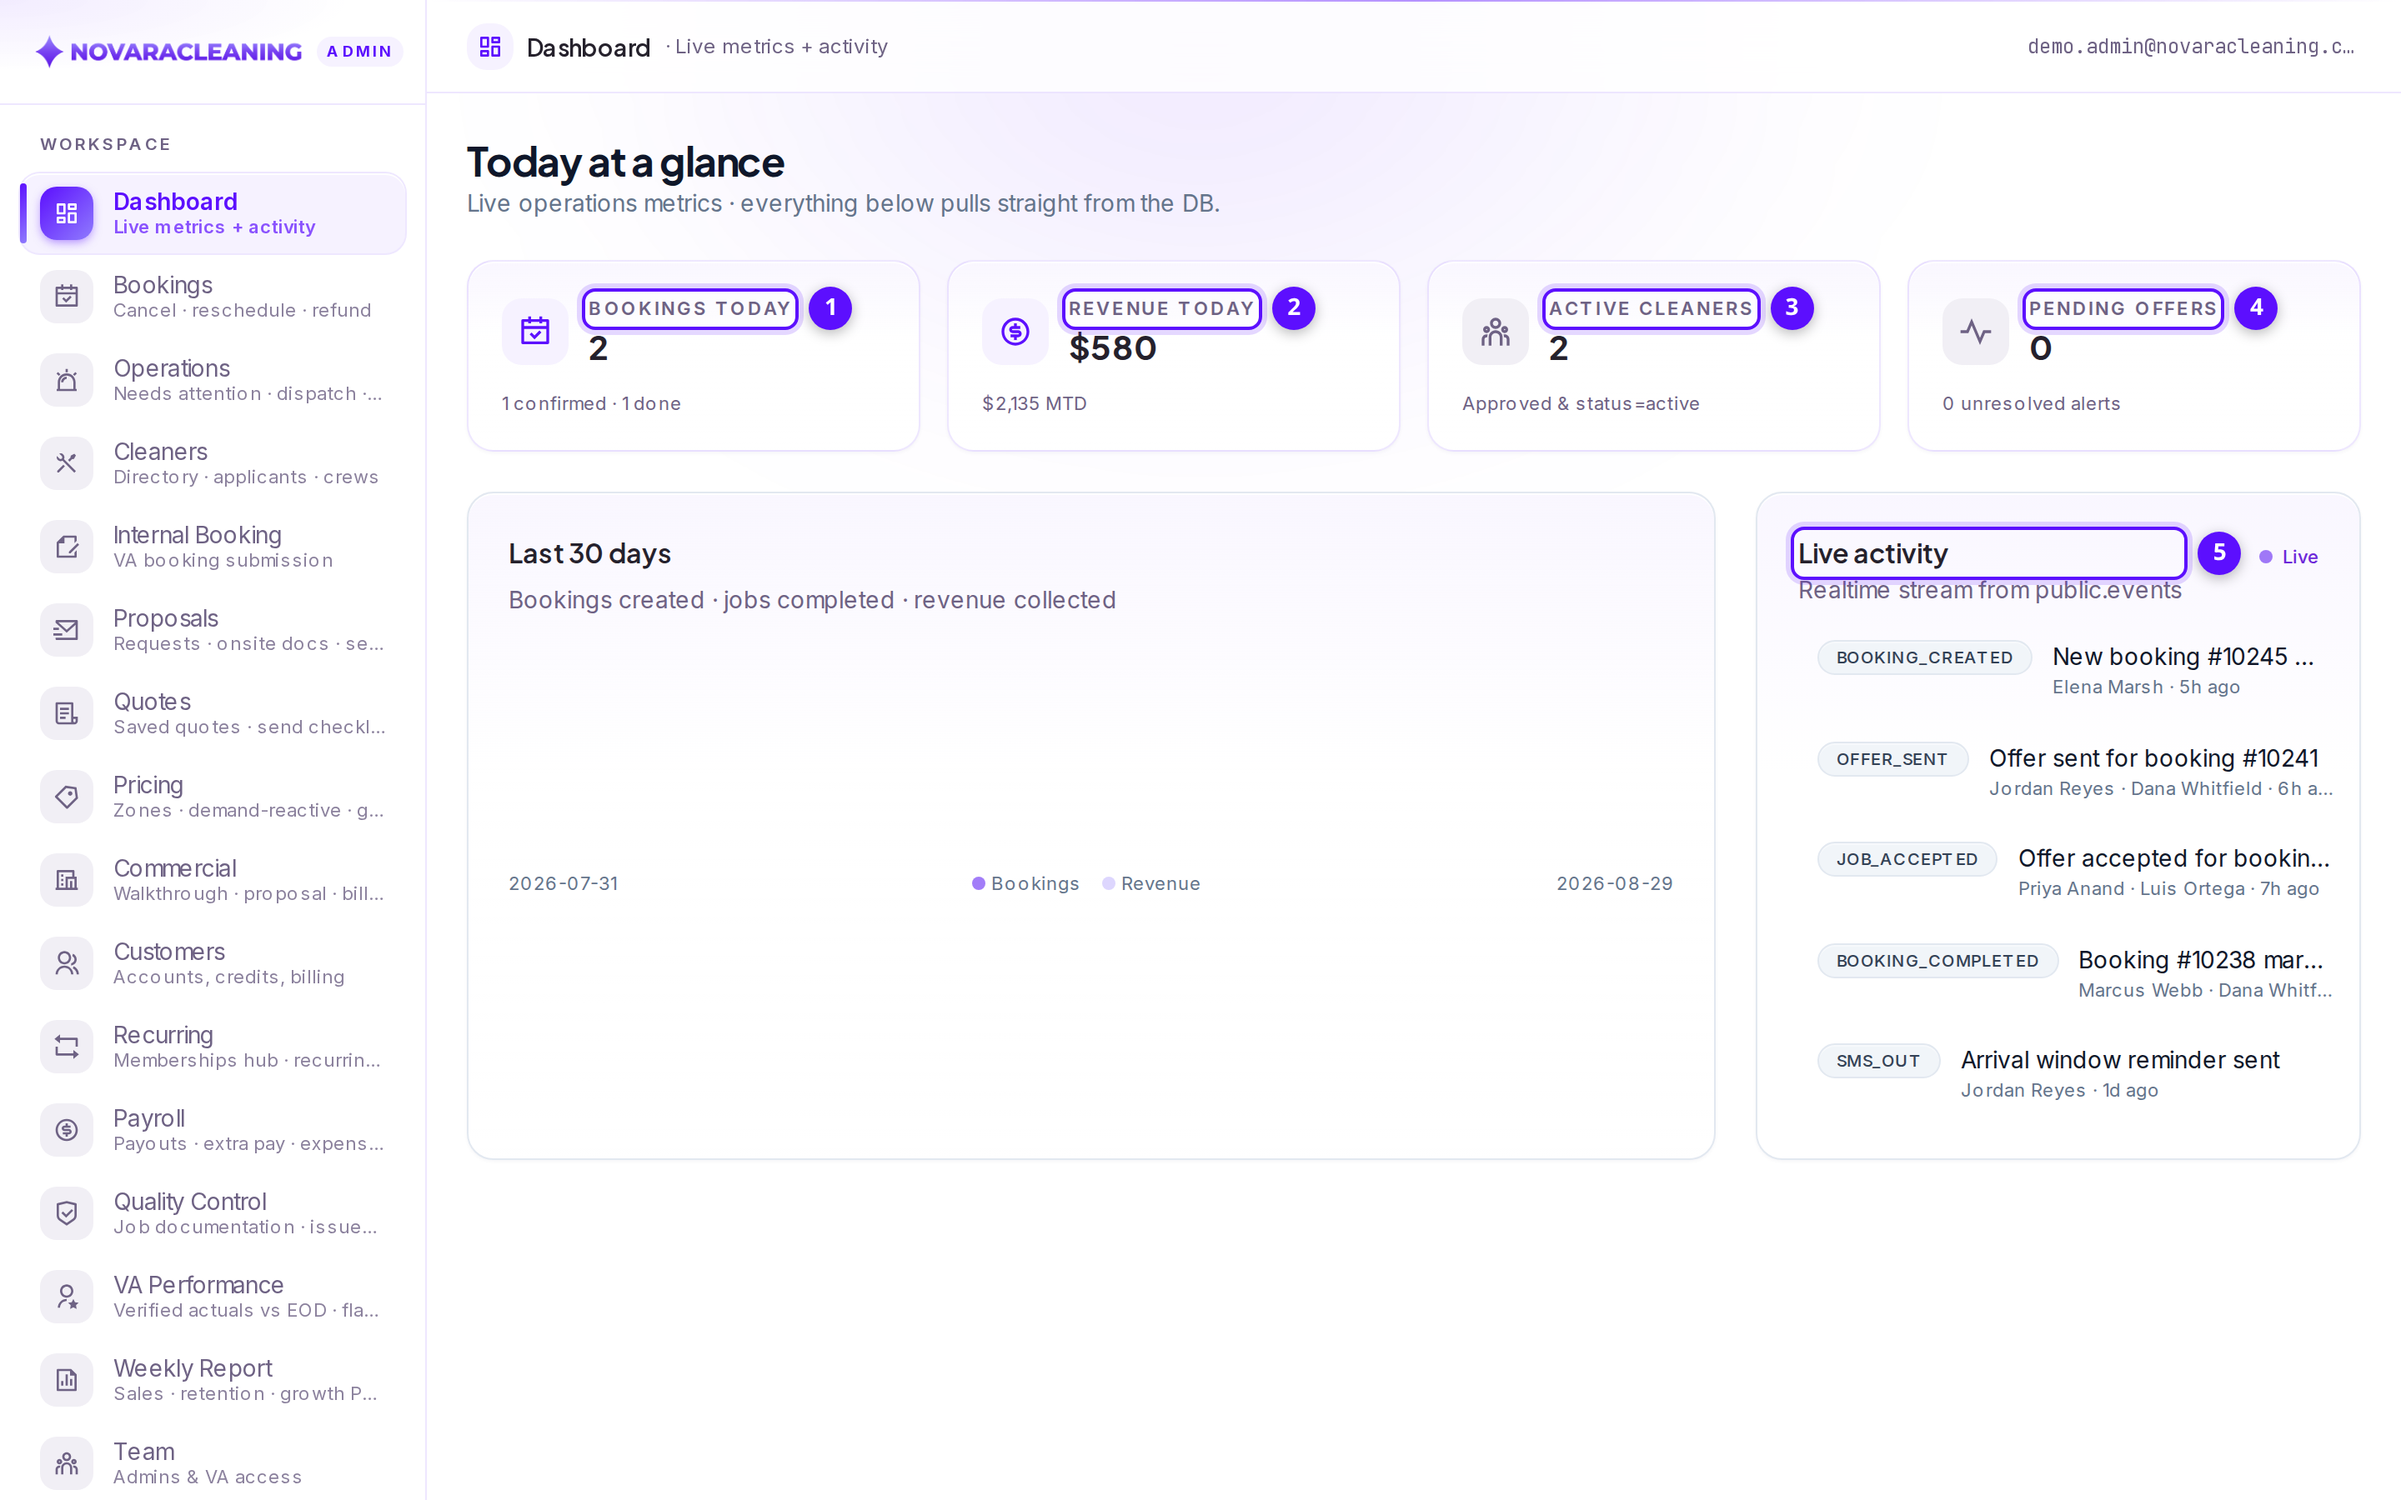
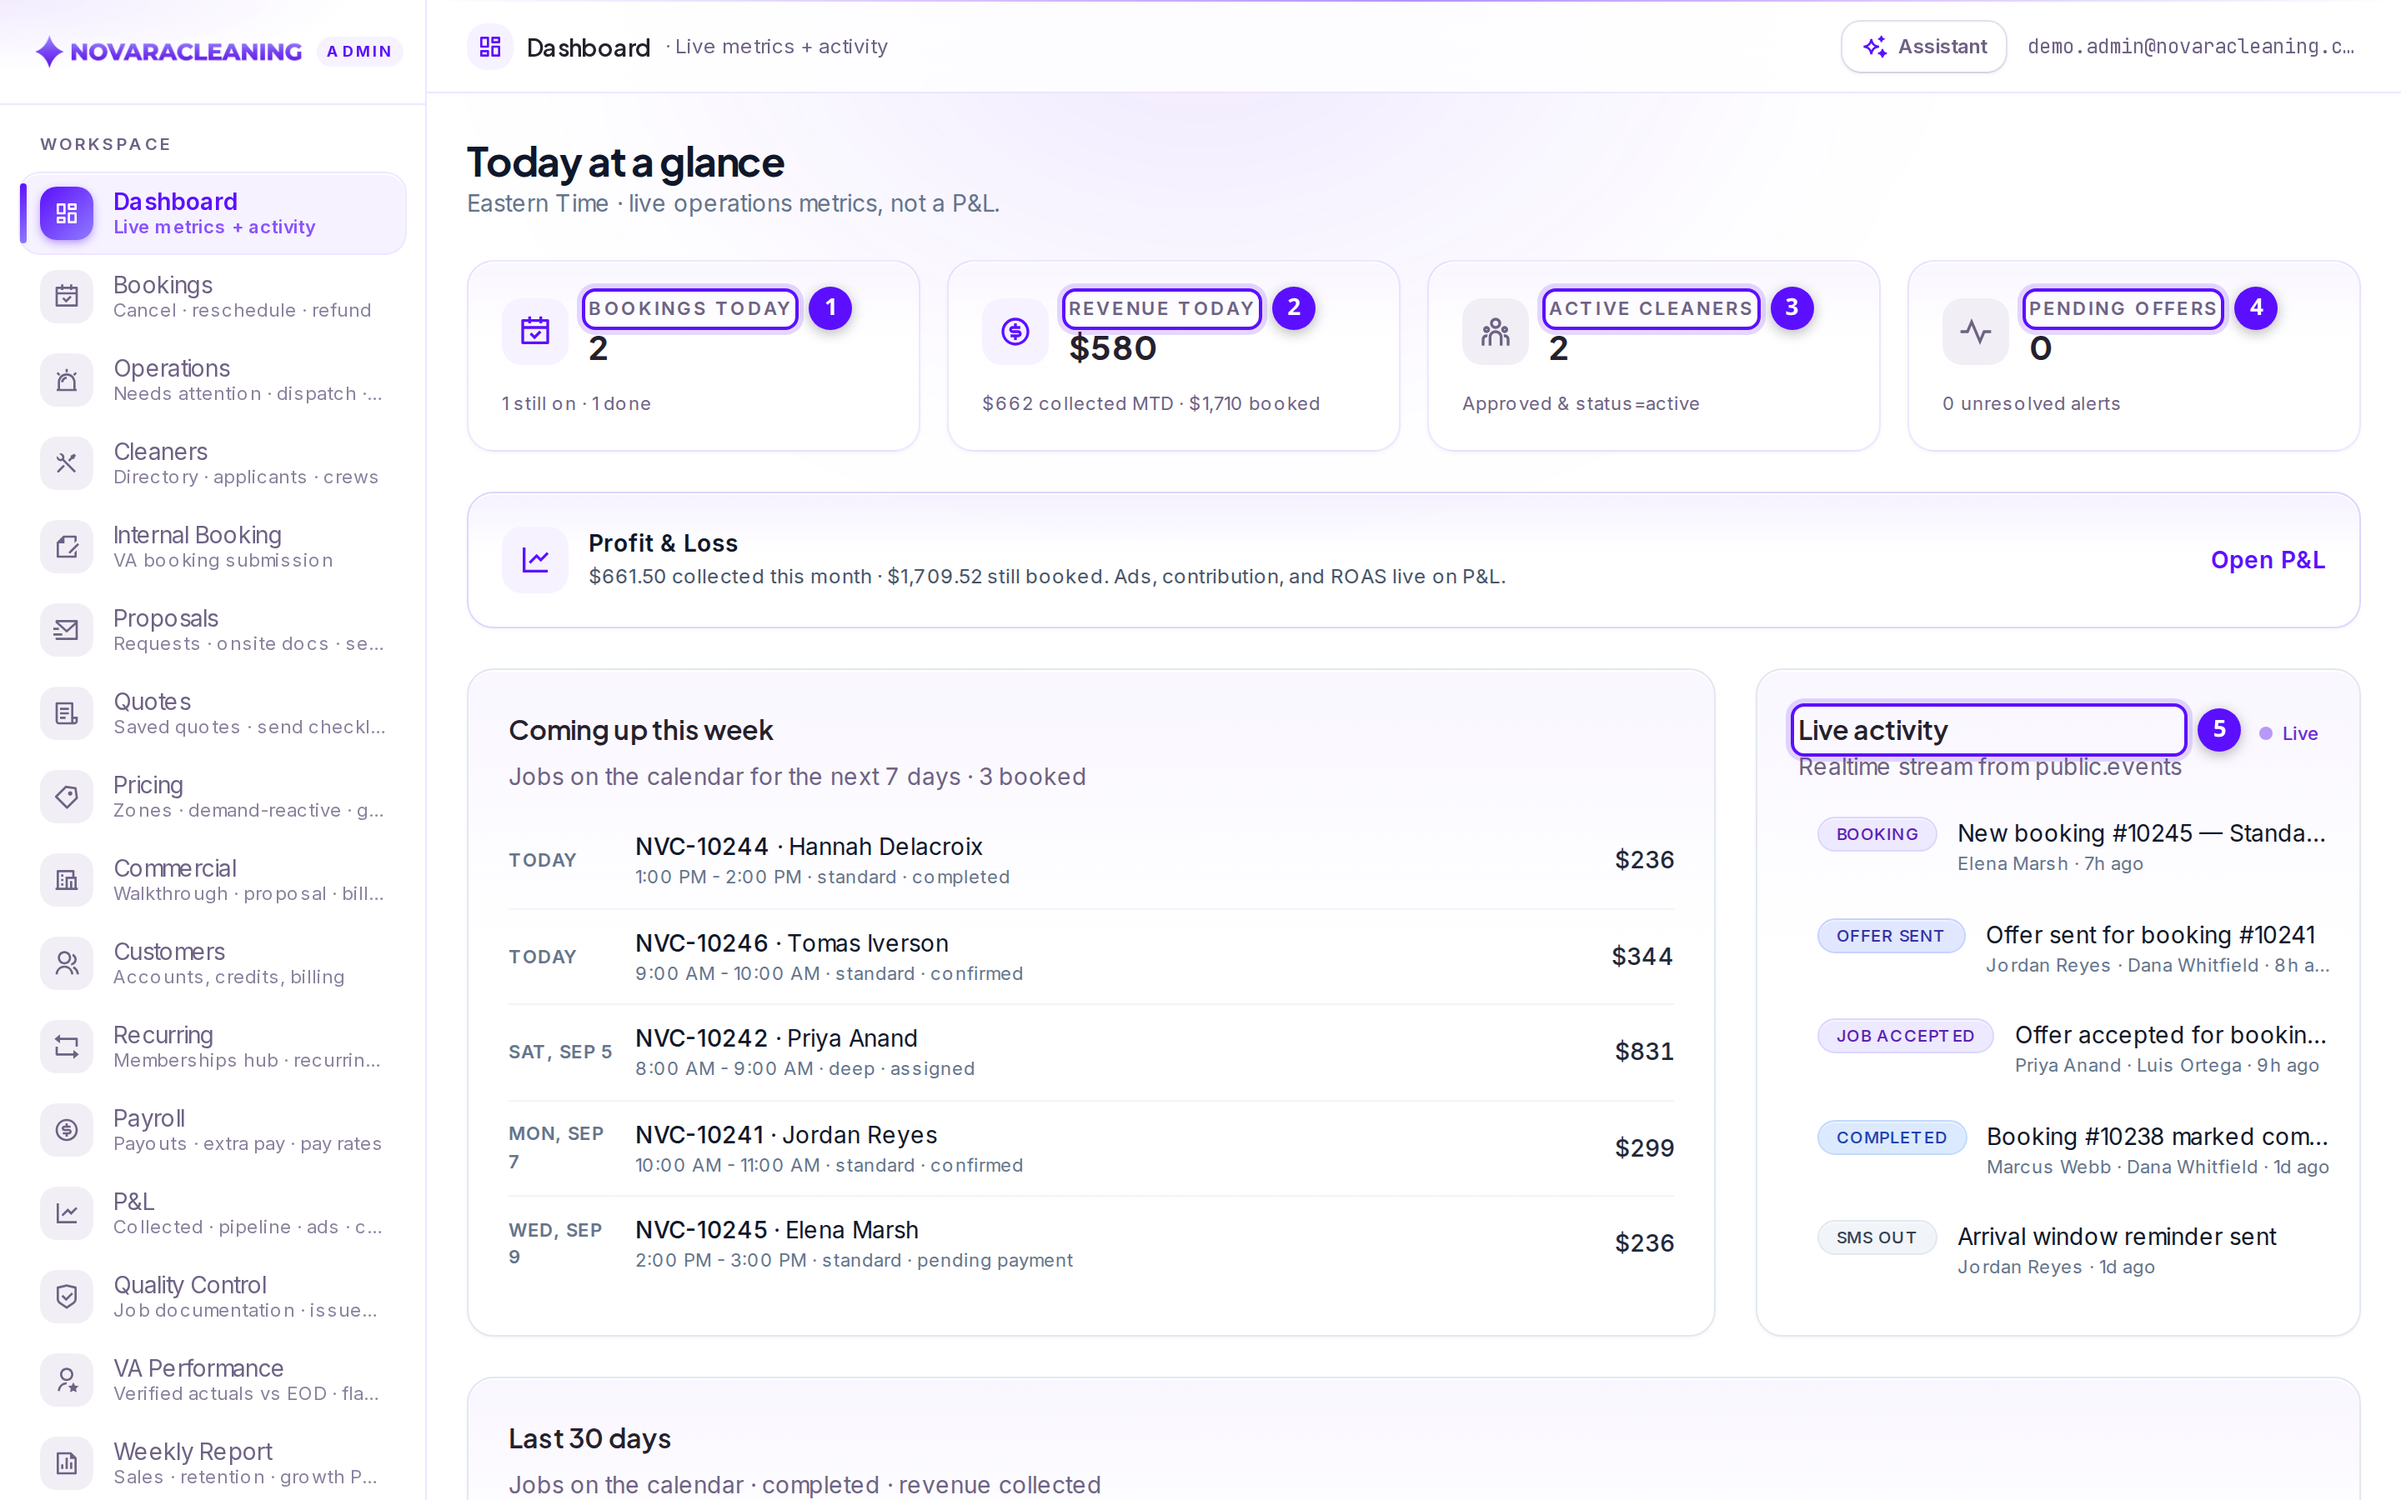
Add P&L overview screenshot and recapture dashboard shots.
Dashboard capture now shows MTD collected, pipeline, and coming-up
jobs; P&L page is documented with a live capture of the month table.

diff --git a/docs/admin-workspace/pnl.md b/docs/admin-workspace/pnl.md
@@ -15,6 +15,8 @@ admins"** and are sent back to the dashboard.
 It is the live money picture. The branded Google Sheet is a **mirror** of these numbers, not
 the source of truth. Supabase is.
 
+@screenshot pnl-overview
+
 ## What the tiles mean
 
 **Collected** is completed jobs in the selected month. The job's final charge is used when it
